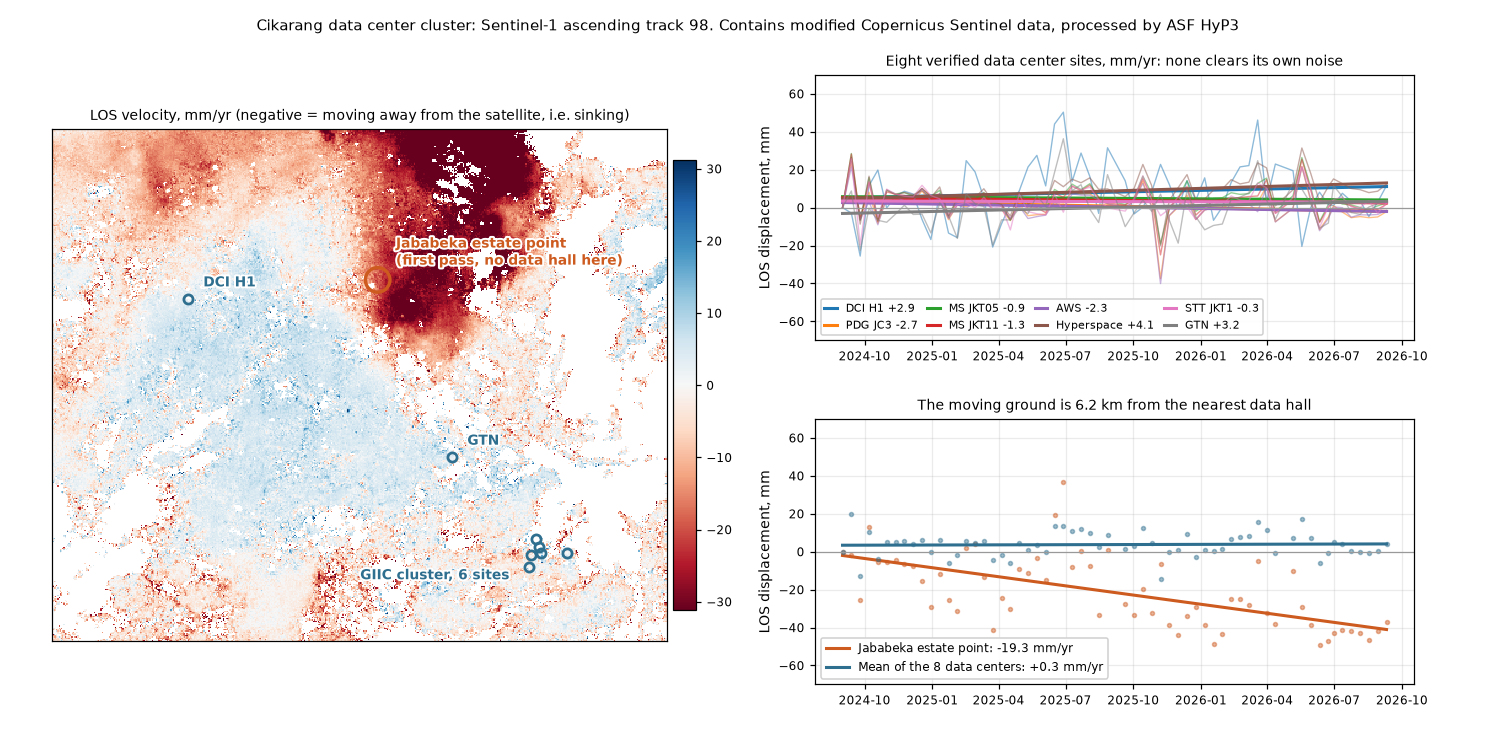
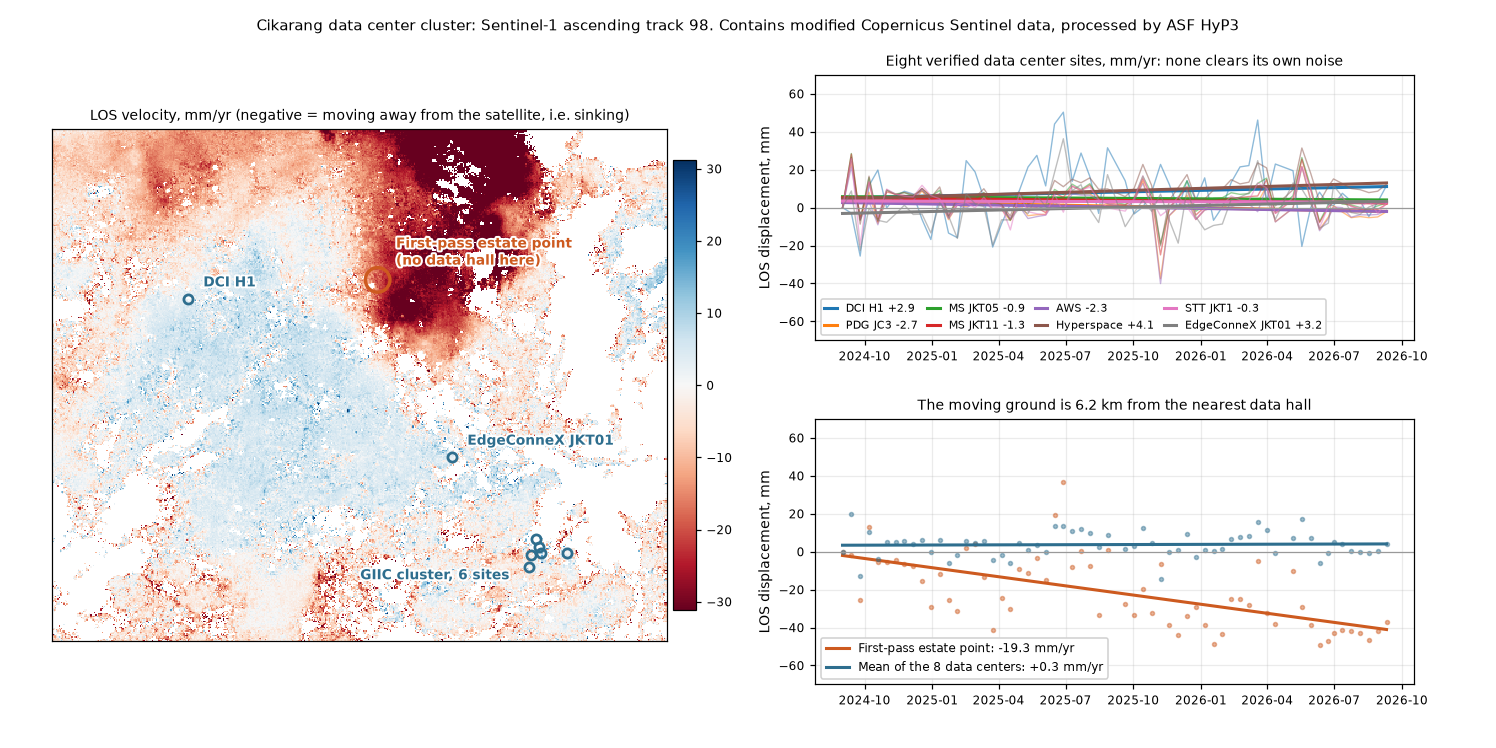
Cikarang demo: a results table recipients can find their site in
Per-site table (rate, error, pixels, coordinate source) under the hero,
estate reference points beside it, and ?site= links that highlight one
site on the chart. The correction moves below the caveats, the Jababeka
point is described the way the letter to Jababeka describes it, the map
is re-rendered with the EdgeConneX label, and the closing offer matches
the letters: two sites at no cost. Homepage no longer claims deep
learning in the measurement.

Claude-Session: https://claude.ai/code/session_01Gwu5iLiHBDKvT65ZVGPtdd

diff --git a/demo/cikarang/index.html b/demo/cikarang/index.html
@@ -172,6 +172,28 @@
   .chart{width:100%;height:auto;display:block}
   #chart{margin-top:6px}
   .card-map{width:100%;height:auto;display:block;border-radius:14px;margin-bottom:16px;background:#fff}
+  .tbl-wrap{overflow-x:auto;-webkit-overflow-scrolling:touch}
+  table.res{width:100%;border-collapse:collapse;font-size:.9rem;min-width:560px}
+  table.res th{text-align:left;font-weight:600;color:var(--muted);font-size:.76rem;letter-spacing:.04em;
+    text-transform:uppercase;padding:8px 10px;border-bottom:1px solid var(--line)}
+  table.res td{padding:9px 10px;border-bottom:1px solid var(--line);color:var(--ink);vertical-align:top}
+  table.res tr:last-child td{border-bottom:0}
+  table.res .num{text-align:right;font-variant-numeric:tabular-nums;white-space:nowrap}
+  table.res tbody tr{cursor:pointer;transition:background .12s ease}
+  table.res tbody tr:hover{background:rgba(122,80,255,.05)}
+  table.res tbody tr.sel{background:rgba(205,90,31,.10)}
+  table.res tbody tr.sel td:first-child{box-shadow:inset 3px 0 0 var(--brand)}
+  table.res .sw{display:inline-block;width:9px;height:9px;border-radius:3px;margin-right:8px;vertical-align:middle}
+  table.res .src{color:var(--muted);font-size:.82rem}
+  #results{scroll-margin-top:90px}
+  table.res .note-m{display:none;color:var(--muted);font-size:.8rem;line-height:1.45;margin-top:4px}
+  @media(max-width:640px){
+    table.res{min-width:0;font-size:.86rem}
+    table.res th,table.res td{padding:8px 6px}
+    #resSites th:nth-child(2),#resSites td:nth-child(2),#resSites th:nth-child(5),#resSites td:nth-child(5){display:none}
+    #resEstates th:nth-child(2),#resEstates td:nth-child(2){display:none}
+    table.res .note-m{display:block}
+  }
 </style>
 </head>
 <body>
@@ -192,14 +214,15 @@
   <section class="hero-demo">
     <span class="eyebrow">Demo &middot; Cikarang, Indonesia &middot; live archive, null result</span>
     <h2>Eight data centers, two years, nothing moving</h2>
-    <p class="lede">Cikarang carries most of Indonesia's new data center capacity, on the same
-    alluvial plain that has made North Jakarta one of the fastest sinking cities on record. We
-    processed <strong>119 interferograms</strong> from the free Sentinel-1 archive, <strong>61
-    passes</strong> between September 2024 and September 2026, and sampled the stack at the
-    coordinates of eight data centers taken from PeeringDB and OpenStreetMap.</p>
-    <p class="lede">Every one of them is flat to within our own noise. This page is what a
-    screening run looks like when the answer is no, and what it looked like for one day when we
-    sampled the wrong 400 metres.</p>
+    <p class="lede">Cikarang, east of Jakarta, holds most of Indonesia's new data center capacity,
+    on the same alluvial plain that has made North Jakarta one of the fastest sinking cities on
+    record. We measured the ground under eight data centers from the free Sentinel-1 radar
+    archive: <strong>61 satellite passes</strong> between September 2024 and September 2026,
+    <strong>119 interferograms</strong>, sampled at building coordinates taken from PeeringDB
+    and OpenStreetMap.</p>
+    <p class="lede">Every one of them is flat to within our own measurement noise.
+    <a href="#results">Find your site in the table below.</a> The full working, including a
+    mistake we made and corrected in public, is further down the page.</p>
   </section>
 
   <div class="stats">
@@ -209,8 +232,32 @@
     <div class="f-fact amber"><strong>6.2 km</strong><span>From the moving ground to the nearest data hall</span></div>
   </div>
 
-  <div class="cards">
+  <div class="cards" id="results">
     <div class="card" style="grid-column:1/-1">
+      <h3>Results by site</h3>
+      <p class="sub">Rate of line of sight movement over the two years, from the median of the radar
+      pixels within 400 m of each coordinate. The &plusmn; is one standard error, and a site reads
+      as flat when its rate sits inside about two of them. Click a row to pick it out on the chart.</p>
+      <div class="tbl-wrap">
+        <table class="res" id="resSites">
+          <thead><tr><th>Data center</th><th>Estate</th><th class="num">Rate, mm/yr</th><th class="num">Pixels</th><th>Coordinate from</th></tr></thead>
+          <tbody></tbody>
+        </table>
+      </div>
+      <h3 style="font-size:1.02rem;margin:22px 0 6px">Estate reference points</h3>
+      <p class="sub" style="margin-bottom:10px">One point per industrial estate, sampled in our first
+      pass. They are points on the ground, not buildings, and not a verdict on a whole estate.</p>
+      <div class="tbl-wrap">
+        <table class="res" id="resEstates">
+          <thead><tr><th>Point</th><th>Note</th><th class="num">Rate, mm/yr</th><th class="num">Pixels</th></tr></thead>
+          <tbody></tbody>
+        </table>
+      </div>
+    </div>
+  </div>
+
+  <div class="cards">
+    <div class="card" style="grid-column:1/-1" id="measurement">
       <h3>The measurement</h3>
       <p class="sub">Median line of sight displacement inside 400 m of each data center, one point
       per satellite pass, relative to a reference strip south of the estates. Down means moving away
@@ -229,30 +276,16 @@
     </div>
   </div>
 
-  <section class="more">
-    <span class="eyebrow">The correction &middot; why coordinates come first</span>
-    <h2>An estate centroid is not a building</h2>
-    <p class="lede">The first version of this study sampled one point per industrial estate and
-    reported that Jababeka was sinking 23 mm/yr faster than its neighbours, with the estate's data
-    center tenant named beside the number. Kota Jababeka covers about 5,600 hectares. The point we
-    used sits <strong>6.2 km from the nearest verified data hall</strong>, on the flank of a
-    regional subsidence lobe. The ground there really is moving. No data center is on it.</p>
-    <p class="lede">The middle button above puts that series back on the chart. It is the same
-    pipeline, the same stack and the same inversion, sampled 6 km away, and it is a 23 mm/yr
-    difference in the headline.</p>
-  </section>
-
   <div class="cards">
     <div class="card" style="grid-column:1/-1">
-      <img class="card-map" src="/img/cikarang-map.png" alt="Line of sight velocity map of the Cikarang area with eight verified data center sites marked and the Jababeka estate point circled, beside the displacement series for each">
+      <img class="card-map" src="/img/cikarang-map.png?v=2" alt="Line of sight velocity map of the Cikarang area with eight verified data center sites marked and the first-pass estate point circled">
       <h3>Where everything sits</h3>
       <p class="sub">Line of sight velocity across the scene, red moving away from the satellite.
       The small circles are the verified data centers: DCI H1 in MM2100 to the west, EdgeConneX
       JKT01 in the middle, and six more in the GIIC cluster at Kota Deltamas to the south. The
-      orange circle is the estate point, on the southern flank of the subsiding lobe that covers
-      the north east of the scene. That lobe is regional groundwater drawdown, not anything built
-      on top of it. The image still labels the Sertajaya site GTN, which is the name it carried
-      until EdgeConneX bought it in 2022; it is the same building and the same coordinate.</p>
+      orange circle is the estate point we first sampled, on the southern flank of the subsiding
+      area that covers the north east of the scene. That area looks like regional groundwater
+      drawdown, not load from anything built on top of it.</p>
     </div>
   </div>
 
@@ -262,12 +295,14 @@
     <p class="lede">Nothing here clears its own error bar, and that is the finding. Free radar over
     two years puts the ground under all eight halls inside a few mm/yr of each other and of zero. An
     operator who was about to commission a ground survey on a hunch now has an ordering: none of
-    these eight, and a lobe 6 km north east that would matter a great deal to anyone building in
-    it.</p>
-    <p class="lede">What it is not is a certificate. Our own rates were off by 54 mm/yr RMS against
-    GNSS on tropical ground in Puerto Rico over a six-month window, which spread across two years is
-    still of order 20 mm/yr on an absolute rate. Nothing in the table clears that bar either, which
-    is why this is read as a null and not as eight precise measurements.</p>
+    these eight, and a subsiding area 6 km north east that would matter a great deal to anyone
+    building in it.</p>
+    <p class="lede">What it is not is a certificate. Free radar over two years can tell flat ground
+    from moving ground, but on tropical ground it cannot give an exact rate. When we checked our own
+    rates against GNSS stations on tropical ground in Puerto Rico over six months, they were off by
+    54 mm/yr RMS, which spread across two years is still of order 20 mm/yr on an absolute rate.
+    Nothing in the table clears that bar either, which is why this reads as a null and not as eight
+    precise measurements.</p>
     <p style="margin:6px 0 20px"><a href="/research/cikarang-data-centers/" style="color:var(--brand-deep);font-weight:600;text-decoration:none">The full research note, with every caveat and the method &rarr;</a></p>
   </section>
 
@@ -277,6 +312,20 @@
     <div class="f-fact green"><strong id="kDiff">&ndash;</strong><span>Same scatter after differencing two neighbours in GIIC</span></div>
     <div class="f-fact"><strong>119</strong><span>Interferograms, all of them usable</span></div>
   </div>
+
+  <section class="more">
+    <span class="eyebrow">The correction &middot; why coordinates come first</span>
+    <h2>An estate centroid is not a building</h2>
+    <p class="lede">The first version of this study sampled one point per industrial estate. The
+    point for Kota Jababeka, an estate of about 5,600 hectares, read 23 mm/yr faster sinking than
+    its neighbours, and we named the estate's data center tenant beside the number. That point sits
+    <strong>6.2 km from the nearest verified data hall</strong>, on the flank of a regional
+    subsidence area. The ground at that point is moving, and no data center is on it. How much of
+    that area falls inside the estate boundary is something we cannot see from outside.</p>
+    <p class="lede">The middle button on the chart puts that series back. It is the same pipeline,
+    the same stack and the same inversion, sampled 6 km away, and it is a 23 mm/yr difference in
+    the headline. That is why every study now starts from the coordinate of the building.</p>
+  </section>
 
   <section class="more" style="max-width:none">
     <span class="eyebrow">Your Asset &middot; Live Archive Check</span>
@@ -291,7 +340,7 @@
   <div class="dark cta-dark" style="text-align:left;margin-top:26px">
     <span class="label">Have a site like this?</span>
     <h2>We can point this at yours.</h2>
-    <p>The same pipeline runs over a data center campus, a tailings dam, a slope, a reclamation site or a port. Send the coordinates and the question, and we will scope a pilot.</p>
+    <p>The same pipeline runs over a data center campus, a tailings dam, a slope, a reclamation site or a port. Name two sites and we will run the free archive over them at no cost, and send you the same record as this page.</p>
     <div class="cta-row" style="margin-top:8px">
       <a class="btn" href="https://www.linkedin.com/company/rheality/">Message us on LinkedIn</a>
       <a class="btn ghost email-btn" href="/#contact">Email us</a>
@@ -316,7 +365,31 @@ var C={plum:'#33254E',brand:'#CD5A1F',mut:'#6F6488',line:'#E4DDF1',grid:'#EDE7F6
 var PAL=['#2E6E8E','#2E9E6B','#7A50FF','#C08A16','#B3341A','#0F766E','#9333EA','#475569'];
 var SHORT={dci_h1:'DCI H1',pdg_jc3:'PDG JC3',msft_jkt05:'Microsoft JKT05',msft_jkt11:'Microsoft JKT11',
   aws_giic:'AWS GIIC',hyperspace:'Hyperspace',stt_jkt1:'STT Jakarta 1',gtn:'EdgeConneX JKT01'};
-var D=null,mode='sites',hidden={},series={};
+var D=null,mode='sites',hidden={},series={},focus=null;
+var EST={mm2100_pt:['MM2100 estate point','Well clear of the subsiding area'],
+  deltamas_pt:['Kota Deltamas estate point','Well clear of the subsiding area'],
+  jababeka_pt:['First-pass point in Kota Jababeka','On the flank of a regional subsidence area, 6.2 km from the nearest data hall. How much of that area lies inside the estate boundary cannot be seen from outside']};
+var EST_ORDER=['mm2100_pt','deltamas_pt','jababeka_pt'];
+function esc(t){return String(t).replace(/&/g,'&amp;').replace(/</g,'&lt;');}
+function rateTxt(r){return (r.velocity_mm_yr>=0?'+':'&minus;')+Math.abs(r.velocity_mm_yr).toFixed(1)+' &plusmn; '+r.velocity_sigma.toFixed(1);}
+function srcTxt(v){var c=v.coord_source||'';return c.indexOf('PeeringDB')===0?'PeeringDB':(c.indexOf('OpenStreetMap')===0?'OpenStreetMap':c);}
+function tables(){
+  var S=series.S;
+  document.querySelector('#resSites tbody').innerHTML=series.keys.map(function(k,i){var v=S[k];
+    return '<tr data-site="'+k+'"><td><span class="sw" style="background:'+PAL[i%PAL.length]+'"></span>'+esc(v.label)+'</td><td>'+esc(v.estate)
+      +'</td><td class="num">'+rateTxt(v.r400)+'</td><td class="num">'+v.r400.n_px+'</td><td class="src">'+esc(srcTxt(v))+'</td></tr>';}).join('');
+  document.querySelector('#resEstates tbody').innerHTML=EST_ORDER.filter(function(k){return S[k];}).map(function(k){var v=S[k];
+    return '<tr data-site="'+k+'"><td><span class="sw" style="background:'+C.brand+'"></span>'+EST[k][0]+'<div class="note-m">'+EST[k][1]+'</div></td><td class="src">'+EST[k][1]
+      +'</td><td class="num">'+rateTxt(v.r400)+'</td><td class="num">'+v.r400.n_px+'</td></tr>';}).join('');
+  markRows();
+}
+function markRows(){[].forEach.call(document.querySelectorAll('table.res tbody tr'),function(r){r.classList.toggle('sel',r.getAttribute('data-site')===focus);});}
+function setFocus(k,push){
+  focus=(focus===k)?null:k;hidden={};
+  if(mode==='difference'){mode='sites';[].forEach.call(document.querySelectorAll('.mode-btn'),function(b){b.classList.toggle('on',b.getAttribute('data-mode')==='sites');});}
+  markRows();draw();
+  if(push&&window.history&&history.replaceState){var u=location.pathname+(focus?'?site='+focus:'')+location.hash;history.replaceState(null,'',u);}
+}
 
 function fmtDate(s){return s.slice(0,7);}
 function slope(ts,ys){var n=ts.length,sx=0,sy=0,sxx=0,sxy=0;
@@ -345,6 +418,10 @@ function build(){
   document.getElementById('prov').textContent='Sentinel-1 ascending track 98, bursts 098_210452_IW2 and 098_210453_IW2, '
     +D.window.epochs+' epochs '+D.window.start+' to '+D.window.end+'. Coherence-weighted least-squares SBAS over '
     +'119 interferograms. Site medians inside 400 m of each coordinate. Source file: pipeline/data/cikarang_sites.json';
+  tables();
+  var q=(location.search.match(/[?&]site=([a-z0-9_]+)/)||[])[1];
+  if(q&&S[q]){focus=q;markRows();var row=document.querySelector('tr[data-site="'+q+'"]');
+    if(row)setTimeout(function(){row.scrollIntoView({block:'center'});},60);}
   draw();
 }
 
@@ -360,13 +437,16 @@ function activeSeries(){
     return out;
   }
   series.keys.forEach(function(k,i){
-    out.push({key:k,name:SHORT[k]||k,color:PAL[i%PAL.length],
+    out.push({key:k,name:SHORT[k]||k,color:PAL[i%PAL.length],rate:S[k].r400.velocity_mm_yr,
       y:S[k].r400.series.map(function(p){return p.los_mm;})});
   });
-  if(mode==='correction'){
-    out.push({key:'jababeka_pt',name:'Jababeka estate point',color:C.brand,wide:true,
-      y:S.jababeka_pt.r400.series.map(function(p){return p.los_mm;})});
-  }
+  var extra=[];
+  if(mode==='correction')extra.push('jababeka_pt');
+  if(focus&&EST[focus]&&extra.indexOf(focus)<0)extra.push(focus);
+  extra.forEach(function(k){
+    out.push({key:k,name:k==='jababeka_pt'?'First-pass estate point':EST[k][0],color:C.brand,wide:true,
+      rate:S[k].r400.velocity_mm_yr,y:S[k].r400.series.map(function(p){return p.los_mm;})});
+  });
   return out;
 }
 
@@ -392,20 +472,21 @@ function draw(){
   shown.forEach(function(s){
     var d='';
     s.y.forEach(function(v,i){d+=(i?'L':'M')+X(ts[i]).toFixed(1)+' '+Y(v).toFixed(1);});
-    g+='<path d="'+d+'" fill="none" stroke="'+s.color+'" stroke-width="'+(s.wide?1.6:1)+'" opacity="'+(s.wide?0.55:0.4)+'"/>';
+    var fo=focus&&mode!=='difference',me=fo&&s.key===focus,dim=fo&&!me;
+    g+='<path d="'+d+'" fill="none" stroke="'+s.color+'" stroke-width="'+(me?1.8:(s.wide?1.6:1))+'" opacity="'+(me?0.8:(dim?0.12:(s.wide?0.55:0.4)))+'"/>';
     var f=slope(ts,s.y);
     g+='<line x1="'+X(ts[0]).toFixed(1)+'" y1="'+Y(f[1]).toFixed(1)+'" x2="'+X(ts[ts.length-1]).toFixed(1)
-      +'" y2="'+Y(f[0]*ts[ts.length-1]+f[1]).toFixed(1)+'" stroke="'+s.color+'" stroke-width="'+(s.wide?3.4:2.4)+'" stroke-linecap="round"/>';
+      +'" y2="'+Y(f[0]*ts[ts.length-1]+f[1]).toFixed(1)+'" stroke="'+s.color+'" stroke-width="'+(me?4:(s.wide?3.4:2.4))+'" opacity="'+(dim?0.25:1)+'" stroke-linecap="round"/>';
   });
   document.getElementById('chart').innerHTML='<svg class="chart" viewBox="0 0 '+W+' '+H
     +'" role="img" aria-label="line of sight displacement series for the Cikarang data center sites">'+g+'</svg>';
   document.getElementById('legend').innerHTML=all.map(function(s){
-    var f=slope(ts,s.y);
+    var r=(s.rate!==undefined)?s.rate:slope(ts,s.y)[0];
     return '<button class="lg'+(hidden[s.key]?' off':'')+'" data-k="'+s.key+'" type="button">'
-      +'<i style="background:'+s.color+'"></i>'+s.name+' <b>'+(f[0]>=0?'+':'')+f[0].toFixed(1)+'</b></button>';
+      +'<i style="background:'+s.color+'"></i>'+s.name+' <b>'+(r>=0?'+':'')+r.toFixed(1)+'</b></button>';
   }).join('');
   var notes={sites:'Eight data centers at coordinates from PeeringDB and OpenStreetMap. The thin lines are the measurements, the thick lines the fitted rate in mm/yr. Every rate sits inside about two standard errors of zero.',
-    correction:'The orange series is a point at the centre of Kota Jababeka, 6.2 km from the nearest data hall, on the flank of a regional subsidence lobe. Same stack, same inversion, 23 mm/yr of difference in the headline.',
+    correction:'The orange series is the estate point we first sampled in Kota Jababeka, 6.2 km from the nearest data hall, on the flank of a regional subsidence area. Same stack, same inversion, 23 mm/yr of difference in the headline.',
     difference:'Two sites in the GIIC cluster about 500 m apart, then one subtracted from the other. Tropical water vapour is common to both and cancels, so the orange difference is far quieter than either series alone.'};
   document.getElementById('modeNote').textContent=notes[mode];
 }
@@ -415,6 +496,9 @@ document.addEventListener('click',function(e){
   if(m){mode=m.getAttribute('data-mode');hidden={};
     [].forEach.call(document.querySelectorAll('.mode-btn'),function(b){b.classList.toggle('on',b===m);});
     draw();return;}
+  var tr=e.target.closest?e.target.closest('table.res tbody tr'):null;
+  if(tr){setFocus(tr.getAttribute('data-site'),true);
+    var mc=document.getElementById('measurement');if(mc&&focus)mc.scrollIntoView({behavior:'smooth',block:'start'});return;}
   var l=e.target.closest?e.target.closest('.lg'):null;
   if(l){var k=l.getAttribute('data-k');hidden[k]=!hidden[k];draw();}
 });

diff --git a/index.html b/index.html
@@ -279,7 +279,7 @@
   <h2>What we do</h2>
   <div class="cards">
     <div class="card"><div class="card-photo" style="background-image:url('img/cards/monitor-orbit.jpg')"></div><h3>Monitor from orbit</h3><p>Millimetre-scale ground and structural movement across dams, slopes, reclamation, ports, rail and data-centre sites, measured from space with no instruments to install, a whole portfolio at once instead of one borehole at a time.</p></div>
-    <div class="card"><div class="card-photo" style="background-image:url('img/cards/verify-independent.jpg')"></div><h3>Verify independently</h3><p>We don't build or sell satellites, and we don't sell the operator its monitoring. The data is a commodity we buy; the product is our InSAR and deep-learning analytics, plus an independent read a board, an insurer or a regulator can trust.</p></div>
+    <div class="card"><div class="card-photo" style="background-image:url('img/cards/verify-independent.jpg')"></div><h3>Verify independently</h3><p>We don't build or sell satellites, and we don't sell the operator its monitoring. The data is a commodity we buy; the product is our InSAR processing, plus an independent read a board, an insurer or a regulator can trust.</p></div>
     <div class="card"><div class="card-photo" style="background-image:url('img/cards/alert-report.jpg')"></div><h3>Alert &amp; report</h3><p>Delivered as an auditable monitoring subscription: alerts the moment ground starts to move, and compliance-ready reports built for the new independent-audit mandates: tailings, deforestation and climate disclosure.</p></div>
   </div>
 </section>
@@ -326,7 +326,7 @@
   <p class="lede">We don't build satellites. We take radar that already passes overhead and turn it into an independent, audit-grade read on whether your ground is moving, delivered as a subscription, not a one-off report.</p>
   <div class="cards">
     <div class="card step"><div class="card-photo" style="background-image:url('img/cards/task-acquire.jpg')"></div><div class="pip num">1</div><h3>Task &amp; acquire</h3><p>Free Sentinel-1 C-band radar as the always-on baseline, with commercial SAR (ICEYE, Capella, Umbra) tasked wherever sub-weekly revisit matters. The data is a commodity; we buy the best source for each site rather than being locked to one constellation.</p></div>
-    <div class="card step"><div class="card-photo" style="background-image:url('img/cards/process-detect.jpg')"></div><div class="pip num">2</div><h3>Process &amp; detect</h3><p>Our own InSAR processing and deep-learning deformation models, extending the patented seismic AI and the landslide-detection model already used across a €2B geo-data company, turn raw radar into millimetre movement maps and flag the change that actually matters.</p></div>
+    <div class="card step"><div class="card-photo" style="background-image:url('img/cards/process-detect.jpg')"></div><div class="pip num">2</div><h3>Process &amp; detect</h3><p>Our own InSAR processing turns raw radar into millimetre movement maps and flags the change that actually matters. The measurement is deterministic on purpose, so an insurer or a regulator can reproduce it line by line.</p></div>
     <div class="card step"><div class="card-photo" style="background-image:url('img/cards/alert-report.jpg')"></div><div class="pip num">3</div><h3>Alert &amp; report</h3><p>A monitoring subscription with alerts the moment ground starts to move, and compliance-ready reports built for the audit that asks for them: tailings (GTMI), deforestation (EUDR) and climate-disclosure ground stability.</p></div>
   </div>
 

diff --git a/pipeline/plot_cikarang.py b/pipeline/plot_cikarang.py
@@ -78,7 +78,7 @@ for k, lab, dx, dy, ha in [("dci_h1", "DCI H1", 10, 8, "left"),
 kp = "jababeka_pt"
 x, y = xy(kp)
 ax.add_patch(plt.Circle((x, y), 400, fill=False, lw=2.2, color=TERRA))
-ax.annotate("Jababeka estate point\n(first pass, no data hall here)", (x, y),
+ax.annotate("First-pass estate point\n(no data hall here)", (x, y),
             xytext=(12, 10), textcoords="offset points", fontsize=9, color=TERRA,
             weight="bold", path_effects=[pe.withStroke(linewidth=2.6, foreground="white")])
 ax.set_xlim(x0, x1); ax.set_ylim(y0, y1)
@@ -108,7 +108,7 @@ ax2.set_title("Eight verified data center sites, mm/yr: none clears its own nois
 # --- bottom right: the estate point against the data centers ------------
 ax3 = fig.add_axes([0.545, 0.085, 0.40, 0.355])
 dcmean = np.mean([ser(k) for k in DC], axis=0)
-for k, col, lab in [(kp, TERRA, "Jababeka estate point")]:
+for k, col, lab in [(kp, TERRA, "First-pass estate point")]:
     y = ser(k)
     v, trend, rms = fit(y)
     ax3.plot(tt, y, "o", ms=2.6, alpha=0.45, color=col)
